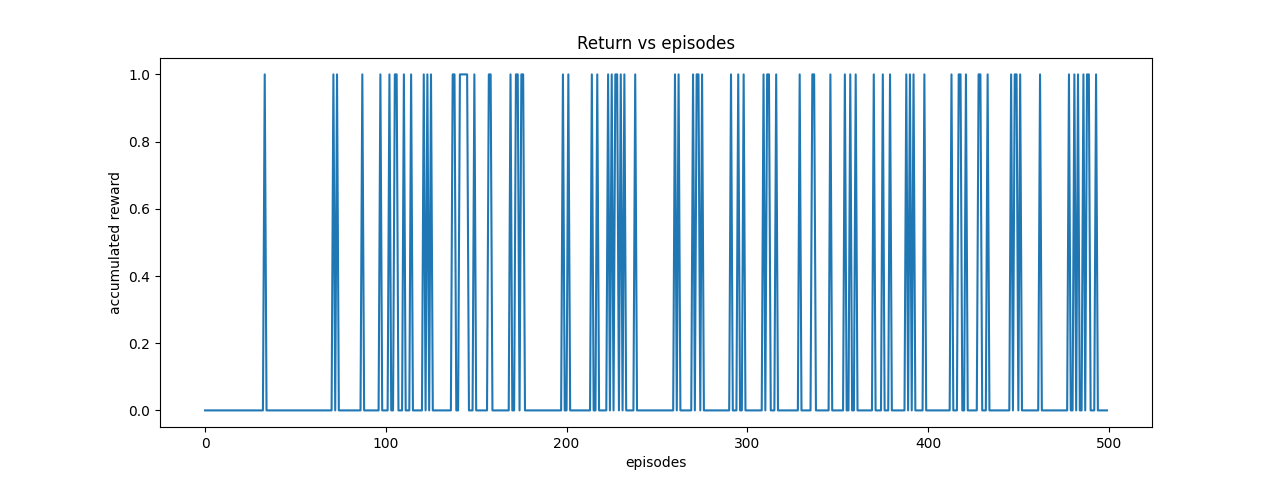
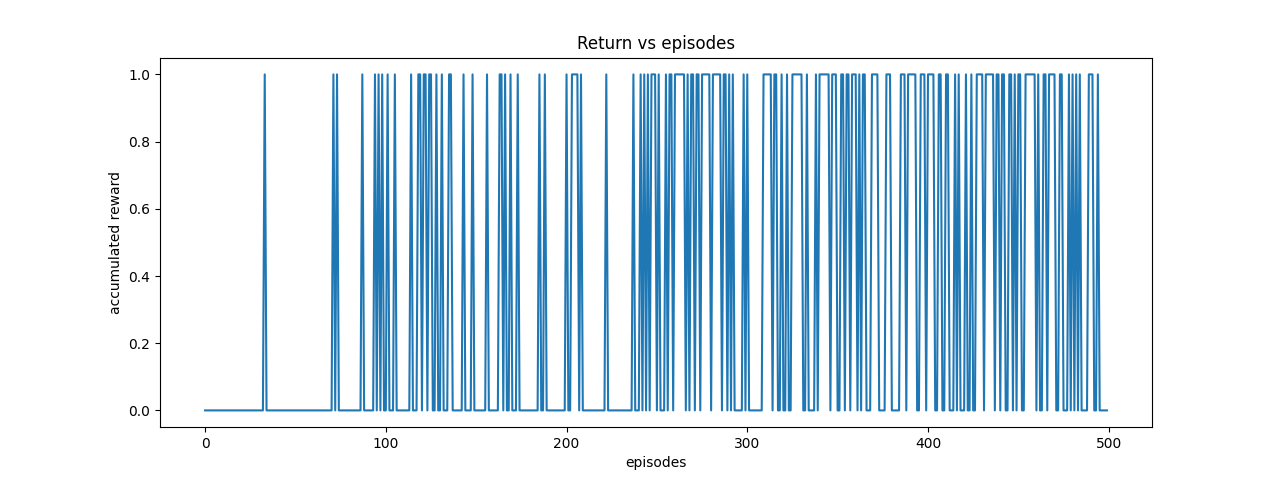
modify files

Changed region(s): [[0.2812, 0.1562, 0.875, 0.875]]

diff --git a/CartPole.py b/CartPole.py
@@ -1,16 +1,28 @@
 import gym
 import numpy as np
+from numpy.random import default_rng
 import math
+import random
 import matplotlib.pyplot as plt
+
+seed_val = 0
+random.seed(seed_val)
+np.random.seed(seed_val)
+rng = default_rng(seed_val)  # random generator
 
 
 def choose_action(state, q_table, action_space, epsilon):
     """
     behavior policy: epsilon-greedy policy.
     """
-    if np.random.random_sample() < epsilon:  # 有 ε 的機率會選擇隨機 action
+    if rng.random() < epsilon:
+        while True:
+            amax = np.argmax(q_table[state])
+            a = action_space.sample()
+            if a != amax:
+                break
         return action_space.sample()
-    else:  # 其他時間根據現有 policy 選擇 action，也就是在 Q table 裡目前 state 中，選擇擁有最大 Q value 的 action
+    else:
         return np.argmax(q_table[state])
 
 
@@ -32,6 +44,7 @@ def get_state(observation, n_buckets, state_bounds):
 
 
 env = gym.make("CartPole-v0")
+env.action_space.np_random.seed(seed_val)
 
 # 準備 Q table
 ## Environment 中各個 feature 的 bucket 分配數量
@@ -49,26 +62,24 @@ state_bounds[3] = [-math.radians(50), math.radians(50)]
 ## Q table，每個 state-action pair 存一值
 q_table = np.zeros(n_buckets + (n_actions,))
 
-# 一些學習過程中的參數
-get_epsilon = lambda i: max(
-    0.01, min(1, 1.0 - math.log10((i + 1) / 25))
-)  # epsilon-greedy; 隨時間遞減
-get_lr = lambda i: max(
-    0.01, min(0.5, 1.0 - math.log10((i + 1) / 25))
-)  # learning rate; 隨時間遞減
-gamma = 0.99  # reward discount factor
-
+# hyperpamaters
+# epsilon-greedy; 隨時間遞減
+get_epsilon = lambda i: max(0.01, min(1, 1.0 - math.log10((i + 1) / 25)))
+# learning rate; 隨時間遞減
+get_lr = lambda i: max(0.01, min(0.5, 1.0 - math.log10((i + 1) / 25)))
+# discount factor
+gamma = 0.99
+# save accumulated reward
 return_list = []
 
 # Q-learning
 for i_episode in range(200):
     epsilon = get_epsilon(i_episode)
     lr = get_lr(i_episode)
-
+    env.seed(i_episode)
     observation = env.reset()
     rewards = 0
     state = get_state(observation, n_buckets, state_bounds)  # 將連續值轉成離散
-    # for t in range(250):
     t = 0
     while True:
         env.render()
@@ -80,18 +91,18 @@ for i_episode in range(200):
         next_state = get_state(observation, n_buckets, state_bounds)
 
         # 更新 Q table
-        q_next_max = np.amax(q_table[next_state])  # 進入下一個 state 後，預期得到最大總 reward
+        q_next_max = np.amax(q_table[next_state])
         q_table[state + (action,)] += lr * (
             reward + gamma * q_next_max - q_table[state + (action,)]
-        )  # 就是那個公式
+        )
 
-        # 前進下一 state
         state = next_state
 
         if done:
+            env.render()
             print(
-                "Episode {} finished after {} timesteps, total rewards {}".format(
-                    i_episode, t + 1, rewards
+                "Episode {} finished after {} timesteps, total rewards {}. epsilon {}, lr {}".format(
+                    i_episode, t + 1, rewards, epsilon, lr
                 )
             )
             return_list.append(rewards)
@@ -104,5 +115,5 @@ plt.plot(return_list)
 plt.xlabel("episodes")
 plt.ylabel("accumulated reward")
 plt.title("Return vs episodes")
-plt.savefig("./return.png")
+plt.savefig("./return-CartPole.png")
 plt.show()

diff --git a/FrozenLake.py b/FrozenLake.py
@@ -1,4 +1,5 @@
 import gym
+import math
 import numpy as np
 import random
 from numpy.random import default_rng
@@ -9,48 +10,47 @@ plt.rcParams["figure.figsize"] = (
     plt.rcParams["figure.figsize"][1],
 )
 
-random.seed(0)
-np.random.seed(0)
-rng = default_rng(0)
+seed_val = 0
+random.seed(seed_val)
+np.random.seed(seed_val)
+rng = default_rng(seed_val)  # random generator
 
 
 # 1. Load Environment and Q-table structure
 
-env = gym.make("FrozenLake-v0")  # "FrozenLake8x8-v0"
+env = gym.make("FrozenLake-v0")
 Q = np.zeros([env.observation_space.n, env.action_space.n])
 print()
 print("env.observation_space:", env.observation_space)
 print("env.action_space:", env.action_space)
 print("env.observation_space.n:", env.observation_space.n)
 print("env.action_space.n:", env.action_space.n)
+print("initial Q table:\n", Q)
+print("-" * 10)
 input("enter any key to continue\n")
 
 
 # 2. Parameters of Q-leanring
-alpha = 0.628
+get_lr = lambda i: max(
+    0.01, min(0.7, 1.0 - math.log10((i + 1) / 100))
+)  # learning rate; 隨時間遞減
 gamma = 1
 epochs = 500
 return_list = []  # rewards per episode calculate
 
+
 # 3. Q-learning Algorithm
 for i in range(epochs):
-
+    alpha = get_lr(i)  # 0.628
     s = env.reset()
     env.seed(i)
     rAll = 0
     t = 0
     while True:
         env.render()
+        print("-" * 10)
 
         # Choose action from Q table
-        # if np.random.random_sample() < 0.05:  # 有 ε 的機率會選擇隨機 action
-        #     a = env.action_space.sample()
-        # else:
-        #     a = np.argmax(Q[s, :])
-
-        # a = np.argmax(
-        #     Q[s, :] + np.random.randn(1, env.action_space.n) * (1.0 / (i + 1))
-        # )
         a = np.argmax(
             Q[s, :] + rng.standard_normal((1, env.action_space.n)) * (1.0 / (i + 1))
         )
@@ -65,18 +65,26 @@ for i in range(epochs):
 
         # if episode done
         if done:
+            env.render()
+            print("-" * 10)
+            print("*" * 50)
             print(
                 "Episode {} finished after {} timesteps, total rewards {}".format(
                     i, t + 1, rAll
                 )
             )
+            print("*" * 40)
             break
+
+        # incresed timestep
         t += 1
 
     return_list.append(rAll)
+
 env.close()
 
-print("Reward Sum on all episodes " + str(sum(return_list) / epochs))
+print()
+print("Mean return on all episodes " + str(sum(return_list) / epochs))
 print("Final Values Q-Table\n", Q)
 
 # plot return vs eposodes
@@ -84,5 +92,5 @@ plt.plot(return_list)
 plt.xlabel("episodes")
 plt.ylabel("accumulated reward")
 plt.title("Return vs episodes")
-plt.savefig("./return-frozenlake.png")
+plt.savefig("./return-FrozenLake.png")
 plt.show()
